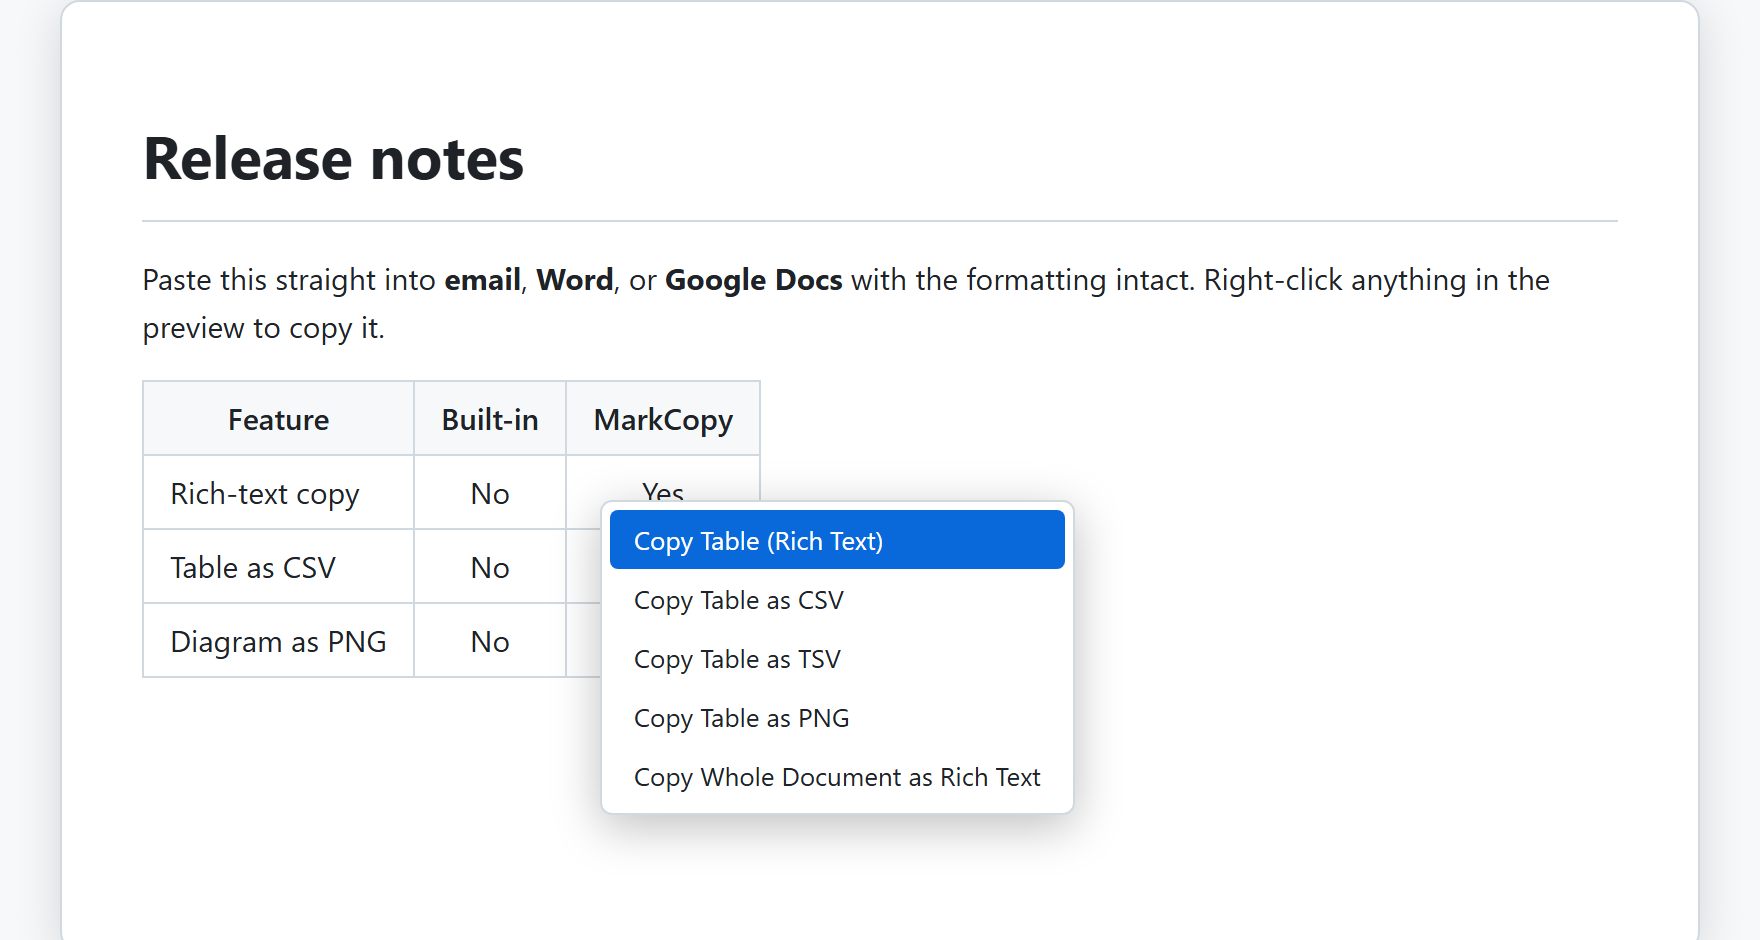
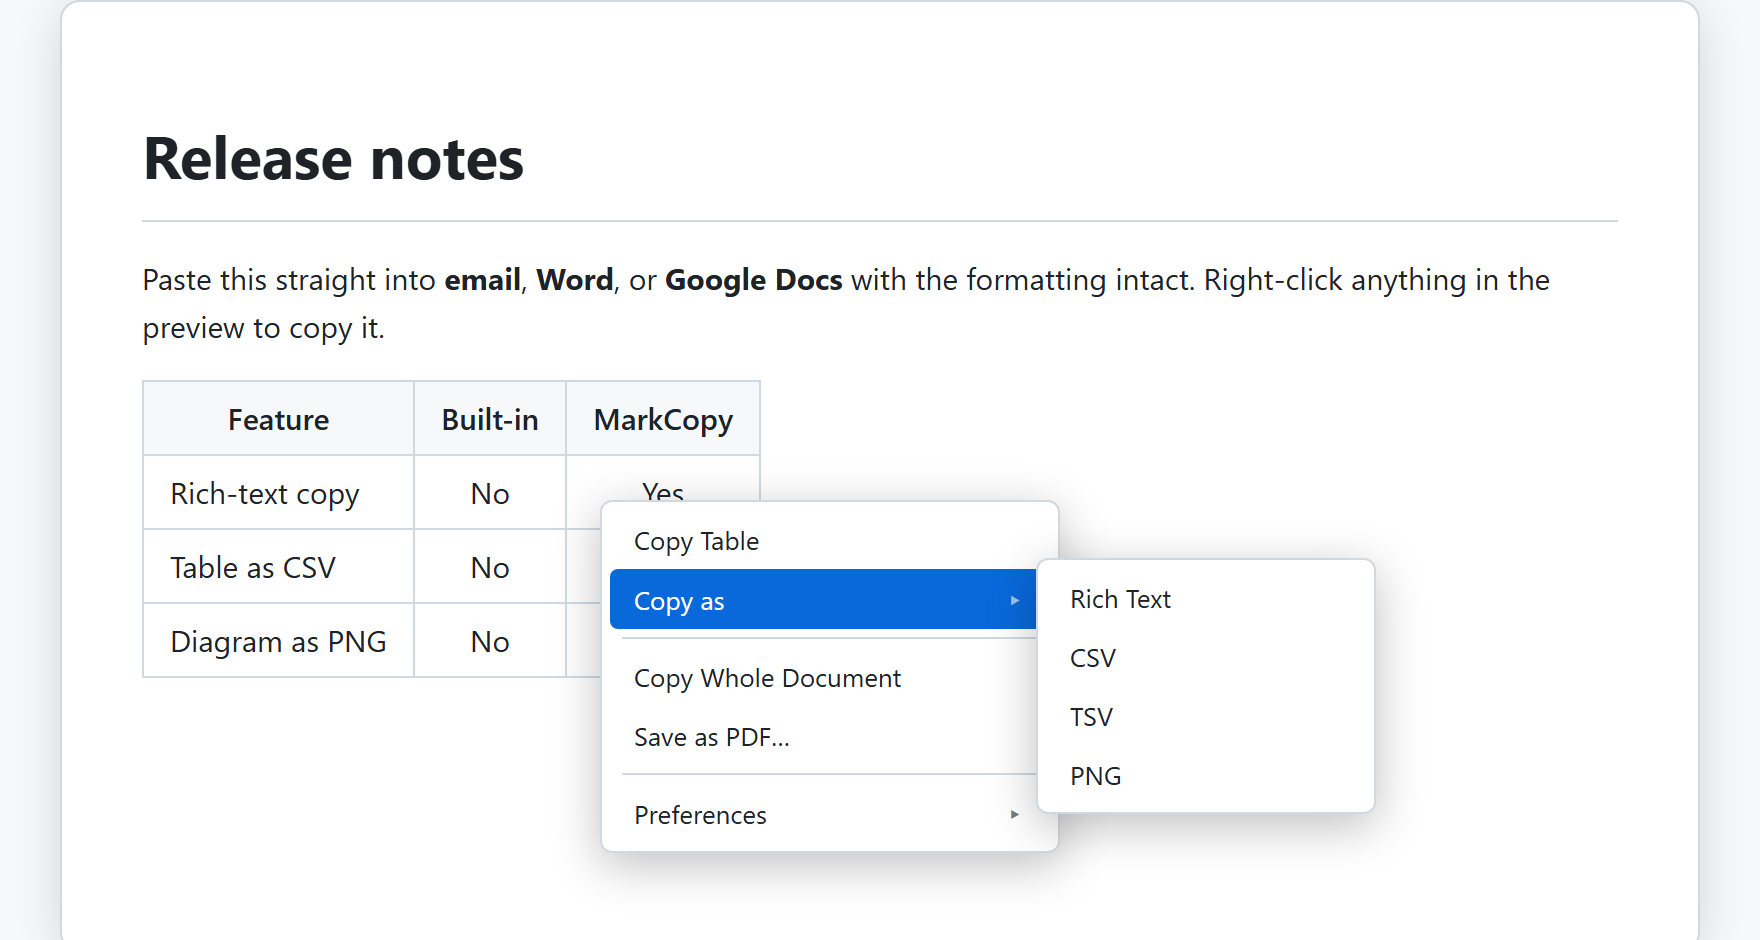
docs(media): regenerate screenshots for the nested context menus
The three README shots that show a context menu all predated the menu
refactor, so they advertised a flat 19-row list that no longer exists.

pdf-viewer.png needed no code change: it dispatches a real contextmenu
event against the actual pdf.js bundle, so it picked up the new 5-row
menu on its own (including the newly focused first row).

The two Markdown shots draw the menu as static markup, because they
render preview.css over plain HTML rather than booting the webview
bundle, so every label was hardcoded and stale. Redrawn to match what
buildMenu() now produces, with the "Copy as" submenu shown open so the
README caption about rich text, CSV, TSV and PNG still holds, and with
the panel geometry mirroring createMenu(). Noted in the script that this
markup has to be kept in step with buildMenu() by hand.

Changed region(s): [[0.3438, 0.5245, 0.7812, 0.9255], [0.7812, 0.6479, 0.8125, 0.833]]

diff --git a/scripts/make-screenshot.js b/scripts/make-screenshot.js
@@ -64,14 +64,37 @@ formatting intact. Right-click anything in the preview to copy it.
 | Diagram as PNG |    No    |   Yes    |
 `;
 
-// A context menu positioned over the table, with the top item "hovered".
+// The menu as buildMenu() in src/webview/main.ts produces it for a right-click
+// on a table: a short top level naming what you clicked, with that element's
+// remaining formats one level down under "Copy as", shown here hovered open.
+//
+// This is static markup because these two shots render preview.css over plain
+// HTML rather than booting the webview bundle, so it has to be kept in step
+// with buildMenu() by hand. (The PDF shot below drives the real menu engine, so
+// it follows along on its own.) The geometry mirrors createMenu(): a submenu
+// sits 4px inside the parent panel's right edge and 4px above its own row.
+const highlighted =
+  'background:var(--vscode-menu-selectionBackground,#0969da); ' +
+  'color:var(--vscode-menu-selectionForeground,#fff);';
 const menu = `
 <div class="mc-menu" style="left:300px; top:250px;">
-  <div class="mc-menu-item" style="background:#0969da; color:#fff;">Copy Table (Rich Text)</div>
-  <div class="mc-menu-item">Copy Table as CSV</div>
-  <div class="mc-menu-item">Copy Table as TSV</div>
-  <div class="mc-menu-item">Copy Table as PNG</div>
-  <div class="mc-menu-item">Copy Whole Document as Rich Text</div>
+  <div class="mc-menu-item">Copy Table</div>
+  <div class="mc-menu-item mc-menu-item--submenu" style="${highlighted}">
+    <span>Copy as</span><span class="mc-menu-arrow">▸</span>
+  </div>
+  <div class="mc-menu-divider"></div>
+  <div class="mc-menu-item">Copy Whole Document</div>
+  <div class="mc-menu-item">Save as PDF…</div>
+  <div class="mc-menu-divider"></div>
+  <div class="mc-menu-item mc-menu-item--submenu">
+    <span>Preferences</span><span class="mc-menu-arrow">▸</span>
+  </div>
+</div>
+<div class="mc-menu mc-menu--sub" style="left:518px; top:279px;">
+  <div class="mc-menu-item">Rich Text</div>
+  <div class="mc-menu-item">CSV</div>
+  <div class="mc-menu-item">TSV</div>
+  <div class="mc-menu-item">PNG</div>
 </div>`;
 
 // Framing shared by every Markdown shot: page background plus a rounded card
